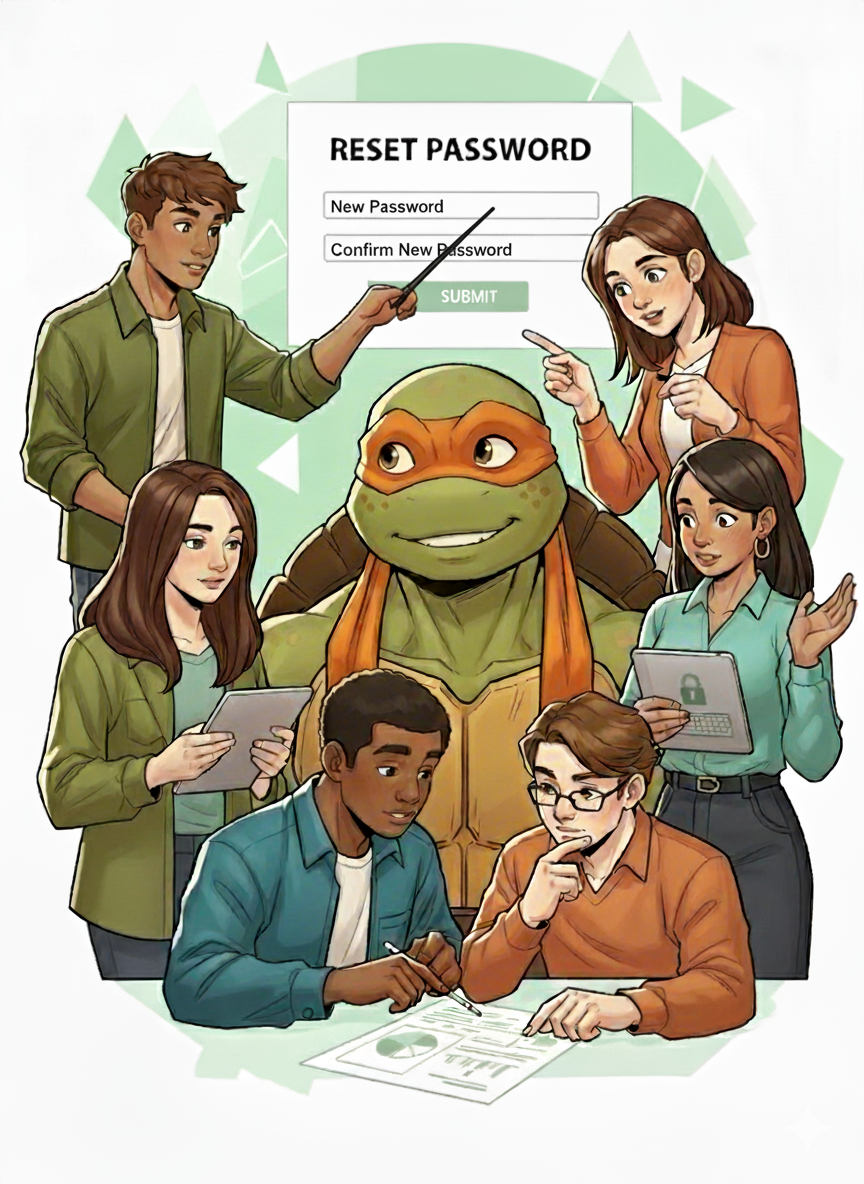
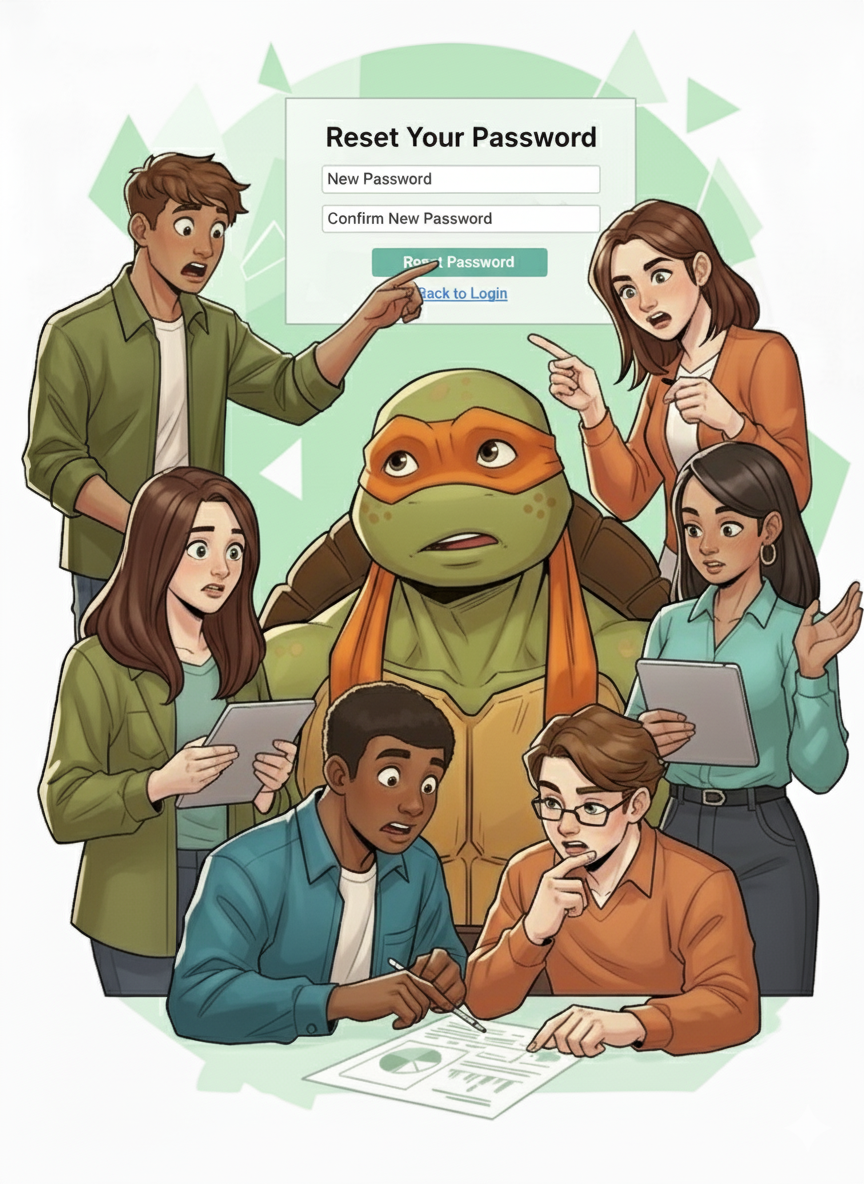
Updated

diff --git a/nextjs/pages/forget_page.jsx b/nextjs/pages/forget_page.jsx
@@ -4,7 +4,8 @@ import Button from "@mui/material/Button";
 import InputAdornment from "@mui/material/InputAdornment";
 import IconButton from "@mui/material/IconButton";
 import ClearIcon from "@mui/icons-material/Clear";
-import styles from "../styles/forgetpage.module.css"; 
+import Link from "@mui/material/Link"; 
+import styles from "../styles/forgetpage.module.css";
 
 function NavigationLayout() {
   return (
@@ -30,6 +31,7 @@ export default function ResetPasswordPage() {
     <>
       <NavigationLayout />
       <div className={styles.pageContainer}>
+        {/* LEFT PANEL */}
         <div className={styles.leftPanel}>
           <img
             src="/images/Michelangelo_Forget.png"
@@ -38,6 +40,7 @@ export default function ResetPasswordPage() {
           />
         </div>
 
+        {/* RIGHT PANEL */}
         <div className={styles.rightPanel}>
           <div className={styles.card}>
             <div className={styles.brandingHeader}>
@@ -54,6 +57,7 @@ export default function ResetPasswordPage() {
             </p>
 
             <form className={styles.form} onSubmit={handleSubmit}>
+              {/* EMAIL FIELD */}
               <TextField
                 label="Email"
                 variant="outlined"
@@ -71,6 +75,7 @@ export default function ResetPasswordPage() {
                 }}
               />
 
+              {/* SEND RESET LINK BUTTON */}
               <div className={styles.buttonGroup}>
                 <Button
                   type="submit"
@@ -80,15 +85,16 @@ export default function ResetPasswordPage() {
                 >
                   Send Reset Link
                 </Button>
-                <Button
-                  variant="outlined"
-                  className={styles.backSignInBtn}
-                  onClick={handleSignIn}
-                  fullWidth
-                >
-                  Back to Sign In
-                </Button>
               </div>
+
+              {/* BACK TO SIGN IN LINK */}
+              <Link
+                onClick={handleSignIn}
+                className={styles.backSignIn}
+                underline="none"
+              >
+                Back to Sign In
+              </Link>
             </form>
 
             <p className={styles.footer}>

diff --git a/nextjs/pages/password_page.jsx b/nextjs/pages/password_page.jsx
@@ -6,6 +6,7 @@ import IconButton from "@mui/material/IconButton";
 import ClearIcon from "@mui/icons-material/Clear";
 import Visibility from "@mui/icons-material/Visibility";
 import VisibilityOff from "@mui/icons-material/VisibilityOff";
+import Link from "@mui/material/Link"; 
 import styles from "../styles/password.module.css";
 
 function NavigationLayout() {
@@ -55,7 +56,7 @@ export default function ResetPasswordPage() {
         {/* Left Panel */}
         <div className={styles.leftPanel}>
           <img
-            src="/images/Michelangelo_Welcome.png"
+            src="/images/Michelangelo_Reset.png"
             alt="Team working on analytics"
             className={styles.illustration}
           />
@@ -163,19 +164,26 @@ export default function ResetPasswordPage() {
                 </div>
               )}
 
+              {/* Reset Button */}
               <div className={styles.buttonGroup}>
-                <Button type="submit" variant="contained" className={styles.sendResetBtn} fullWidth>
-                  Reset Password
-                </Button>
                 <Button
-                  variant="outlined"
-                  className={styles.backSignInBtn}
-                  onClick={handleSignIn}
+                  type="submit"
+                  variant="contained"
+                  className={styles.sendResetBtn}
                   fullWidth
                 >
-                  Back to Sign In
+                  Reset Password
                 </Button>
               </div>
+
+              {/* Back to Sign In Link */}
+              <Link
+                onClick={handleSignIn}
+                className={styles.backSignIn}
+                underline="none"
+              >
+                Back to Sign In
+              </Link>
             </form>
 
             <p className={styles.footer}>© 2025 M.A.C.B., Inc. All Rights Reserved.</p>

diff --git a/nextjs/styles/forgetpage.module.css b/nextjs/styles/forgetpage.module.css
@@ -114,3 +114,19 @@
   color: #adb5bd;
   font-size: 0.8rem;
 }
+
+.backSignIn {
+  font-size: 0.85rem;
+  color: #3a6a3b; 
+  text-decoration: none; 
+  display: inline-block;
+  margin-top: 0.75rem;
+  text-align: center;
+  width: 100%;
+  transition: text-decoration 0.2s ease;
+}
+
+.backSignIn:hover {
+  text-decoration: underline; 
+  cursor: pointer;
+}

diff --git a/nextjs/styles/password.module.css b/nextjs/styles/password.module.css
@@ -140,3 +140,19 @@
   color: #adb5bd;
   font-size: 0.8rem;
 }
+
+.backSignIn {
+  font-size: 0.85rem;
+  color: #3a6a3b; 
+  text-decoration: none; 
+  display: inline-block;
+  margin-top: 0.75rem;
+  text-align: center;
+  width: 100%;
+  transition: text-decoration 0.2s ease;
+}
+
+.backSignIn:hover {
+  text-decoration: underline; 
+  cursor: pointer;
+}
